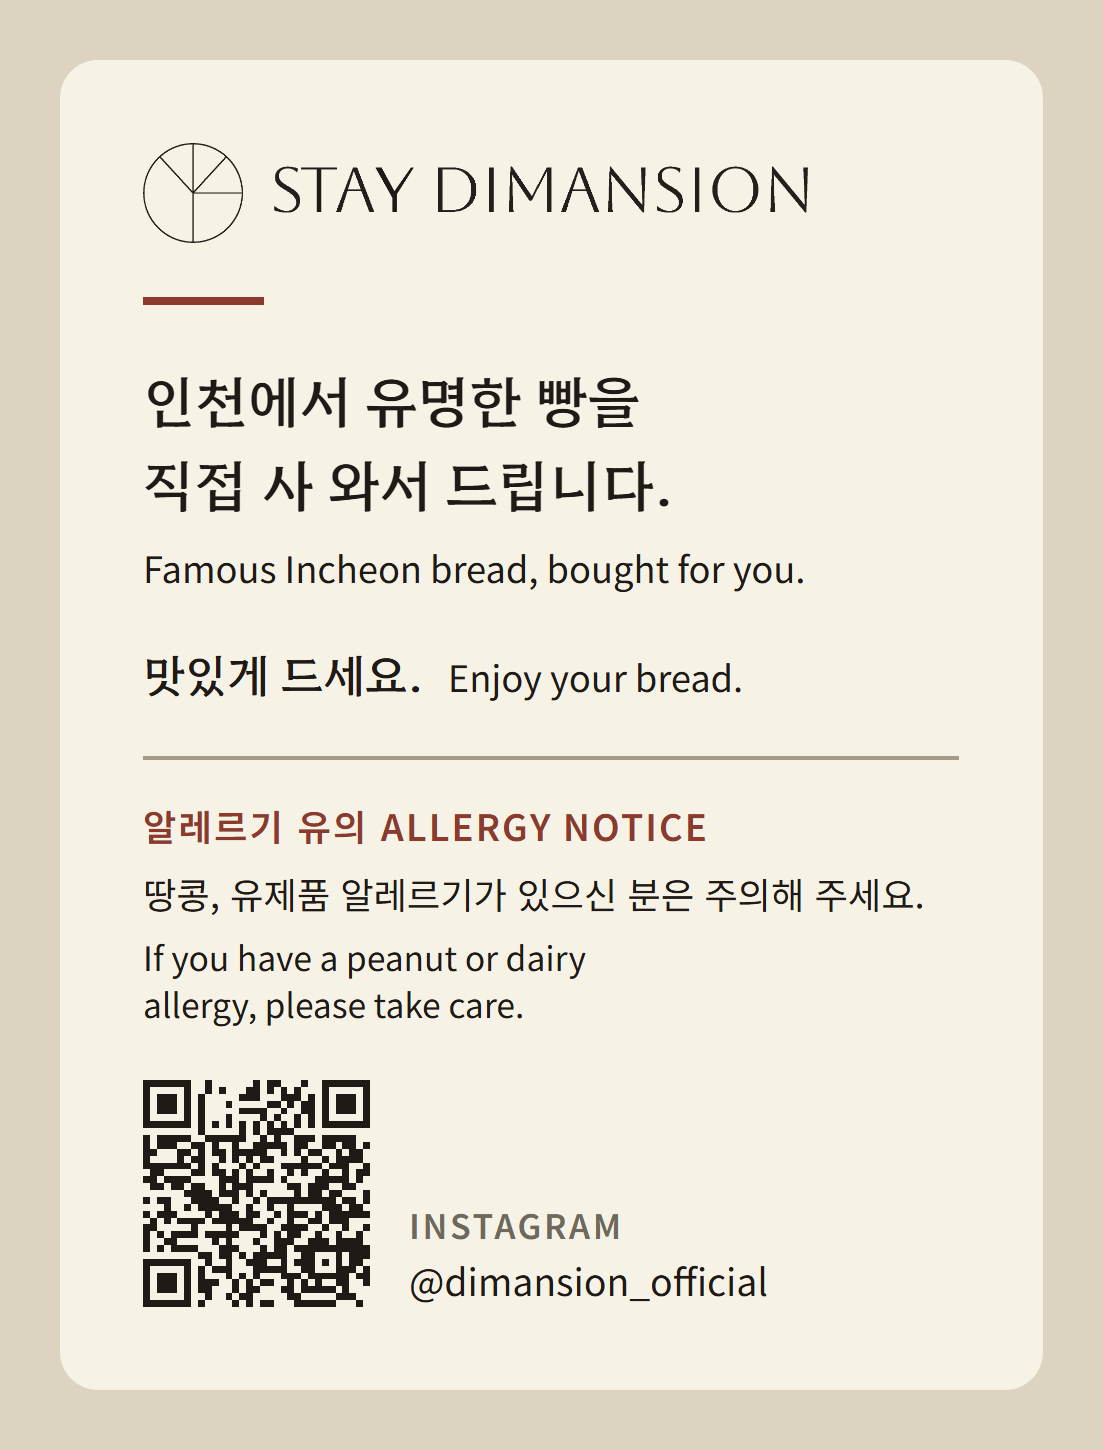
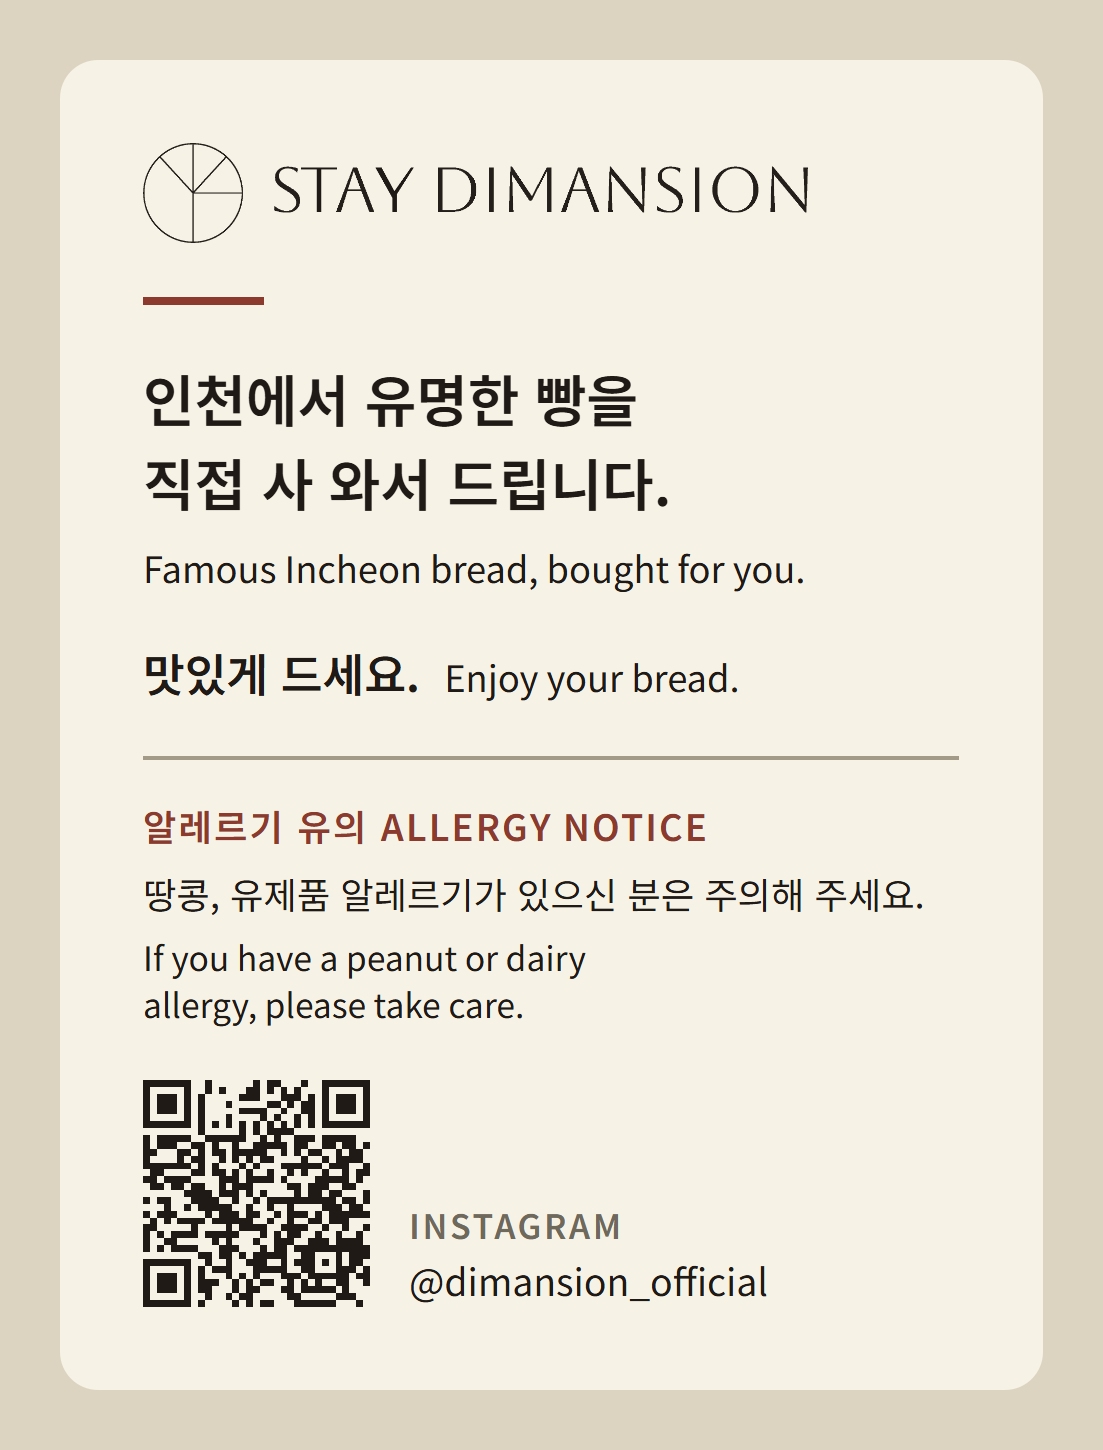
No Korean serif: Korean in Pretendard, English-only Hahmlet
Update README, design-system.md, tokens, fonts.css (Latin-only Hahmlet
subset), swatch sheet and sticker example.

diff --git a/tokens.css b/tokens.css
@@ -1,4 +1,4 @@
-/* Staydimansion design tokens — colors, type, spacing, print, base (combined for reading) */
+/* Staydimansion design tokens — colors, type, spacing, print, base (combined for reading). Fonts: see fonts.css */
 
 /* ===== tokens/colors.css ===== */
 :root {
@@ -41,9 +41,10 @@
 
 /* ===== tokens/typography.css ===== */
 :root {
-  /* Italic is not used in Staydimansion (decided 2026-09-19). Lead lines and quotes use upright Hahmlet. */
-  --font-display-italic: var(--font-display); /* DEPRECATED alias, renders upright Hahmlet. Do not set font-style: italic. */
-  --font-display: "Hahmlet", "Noto Serif KR", serif;   /* headings, wordmark, lead lines */
+  /* Italic is not used in Staydimansion (decided 2026-09-19). English lead lines and quotes use upright Hahmlet; Korean ones use Pretendard. */
+  --font-display-italic: var(--font-display); /* DEPRECATED alias, renders the display stack, upright. Do not set font-style: italic. */
+  /* ENGLISH display only: wordmark, English titles, taglines, English lead lines. fonts.css loads a Latin-only Hahmlet subset, so Korean text in this stack renders in Pretendard. No Korean serif (decided 2026-10-28). */
+  --font-display: "Hahmlet", "Pretendard", "Noto Sans KR", "Malgun Gothic", sans-serif;
   --font-body: "Pretendard", -apple-system, "Malgun Gothic", sans-serif; /* UI + body */
   --font-mono-label: "Pretendard", monospace; /* used at small size + wide tracking, not a real mono */
 

diff --git a/fonts.css b/fonts.css
@@ -1,0 +1,5 @@
+/* English display serif only (decided 2026-10-28: no Korean serif).
+   The text= subset below holds Latin glyphs only, so Hangul never renders in Hahmlet and always falls
+   through to Pretendard / Noto Sans KR in the font stacks. Use the same URL in a <link> inside canvas artboards. */
+@import url('https://fonts.googleapis.com/css2?family=Hahmlet:wght@400;500;700&text=%20!%22%23%24%25%26%27%28%29%2A%2B%2C-.%2F0123456789%3A%3B%3C%3D%3E%3F%40ABCDEFGHIJKLMNOPQRSTUVWXYZ%5B%5C%5D%5E_%60abcdefghijklmnopqrstuvwxyz%7B%7C%7D~%E2%80%98%E2%80%99%E2%80%9C%E2%80%9D%E2%80%93%E2%80%94%E2%80%A6%C2%B7%E2%80%A2%C3%A9%C3%97%E2%86%92&display=swap');
+@import url('https://cdn.jsdelivr.net/gh/orioncactus/pretendard@v1.3.9/dist/web/static/pretendard.css');

diff --git a/design-system.md b/design-system.md
@@ -9,9 +9,10 @@ Brand: **STAYDIMANSION**, tagline "머무는 시간을 편집하는 스테이" (
 **STAY DIMANSION logo (added 2026-10-21):** the lettering in the logo now reads **STAY DIMANSION** (two words). New files are `assets/logo/logo-stay-*.png`: `horizontal` (black on white), `horizontal-ink` and `horizontal-ivory` (tight-cropped, transparent), `stacked` (+ `-ink`, `-ivory`), and `overlay` (grey circle behind the word). `logo-symbol.jpg` has no lettering and is unchanged. Use these for new work; the old `logo-horizontal*.png` / `logo-stacked.png` say DIMANSION only. The new wordmark reuses the original D-I-M-A-N-S-I-O-N glyphs and the S and A of the original; the **T and Y were drawn to match** (same stem and hairline weights, same stroke contrast) because the original typeface is not known. If the original vector or font turns up, rebuild STAY from it.
 
 **Decisions made after the source PDF (2026-09-19):**
-- **No italic anywhere.** The PDF-derived scale listed Newsreader Italic for lead lines; the brand does not use italic. Lead lines and quotes use upright Hahmlet. Newsreader is no longer loaded.
+- **No italic anywhere.** The PDF-derived scale listed Newsreader Italic for lead lines; the brand does not use italic. English lead lines and quotes use upright Hahmlet; Korean ones use Pretendard (see the no-Korean-serif decision below). Newsreader is no longer loaded.
 - **English tagline:** "Stay with comfort, connect with ease." (used on the business card back). The Korean tagline "머무는 시간을 편집하는 스테이" stays.
 - **Print exception to the 80/15/5 colour ratio:** the business card back is a full Rust field. Print pieces may use Rust as a background; screens still keep Rust for CTA and one emphasis.
+- **No Korean serif (2026-10-28):** Korean text is always Pretendard (Noto Sans KR fallback), never Hahmlet or any serif. Serif is for English display text only. In CSS use `font-family: var(--font-display)` for English and `var(--font-body)` for Korean; the Latin-only Hahmlet subset in `fonts.css` means a Korean string wrongly set in the display stack still renders in Pretendard. Existing print files that set Korean in Hahmlet (business card name, rooftop notice title, kiosk POP lead, bread-bag sticker v1) predate this decision.
 - **Korean line-breaking (2026-09-23):** always set `word-break: keep-all;` (plus `overflow-wrap: break-word;` as a fallback for one very long token) on Korean body copy. Default wrapping breaks a line between any two characters, which orphans a syllable — repeated user feedback calls this out. `tokens/base.css` sets it globally for production pages; a Design Component artboard is self-contained, so add the same rule to that artboard's own `<helmet><style> body{...}` block every time. **Exception (2026-10-14):** `keep-all` is for Korean only. On Japanese and Chinese blocks set `word-break: normal; line-break: strict;` (and `lang="ja"` / `lang="zh-Hans"`), otherwise they only break at punctuation. Wrap katakana words, key nouns and button labels in `white-space: nowrap` so they never split.
 
 ## Index
@@ -45,7 +46,7 @@ The guide gives an explicit do/don't list.
 
 ## Visual foundations
 - **Color** — usage ratio is explicit in the guide: Page/Linen ~80%, Ink ~15%, Rust+Brass ~5% combined. Rust is reserved for CTAs and one emphasis element per screen; never body text. Brass fails contrast on Page (2.1:1) — decorative/icon use only, never text. Max ~2 accent uses per screen (one CTA + one highlight).
-- **Type** — two families, each with one job: Hahmlet for headings, the wordmark, lead lines and pull-quotes (a serif with some formality), Pretendard for all UI and body copy (Korean-native sans). No italic, no third family, no decorative display font. When Korean and Latin sit on one line, set the Latin about 10% larger (for example 9.5 px Korean, 10.5 px Latin) so they look the same size.
+- **Type** — two families, each with one job: **Hahmlet (serif) for English display text only** — the wordmark, English titles, taglines, English lead lines and pull-quotes; **Pretendard for all Korean text** (headings at 600–700, lead lines at 500) and for UI and body copy. **No Korean serif, ever** (decided 2026-10-28; `fonts.css` loads a Latin-only Hahmlet subset so Hangul can never fall into it). No italic, no third family, no decorative display font. A bilingual layout sets the English line in Hahmlet and the Korean line in Pretendard. When Korean and Latin sit on one line, set the Latin about 10% larger (for example 9.5 px Korean, 10.5 px Latin) so they look the same size.
 - **Backgrounds** — flat color fields only (Page / Page Deep / Linen / Ink). No photography treatment is defined in the source; no gradients, no patterns, no textures beyond a faint diagonal hairline texture used once as a placeholder fill in the applied-examples panel.
 - **Borders & shadows** — no drop shadows anywhere in the source. Structure comes entirely from 1px hairlines (`--border-hairline`) and flat tone changes between adjacent fields. This is a stated principle: "각진 면, 얇은 선" (square faces, thin lines) — hierarchy via line + tone, not elevation.
 - **Corner radii** — effectively square. Buttons and inputs show a very slight (2px) softening at most; cards and panels are sharp-cornered.
@@ -64,7 +65,7 @@ The guide's "컴포넌트" panel shows: primary/secondary buttons, a date-range 
 
 ## Business card (added 2026-09-19)
 Landscape 90 x 50 mm, two sides, built in `ui_kits/business-card/`.
-- **Front:** Page background. Name in Hahmlet 700 at 14 px, then "총괄매니저 · General Manager". Phone and email at the lower left, aligned to the start of "General Manager"; the address at the lower right, right-aligned, ending with 스테이디멘션. No labels, no rules, no logo.
+- **Front:** Page background. Name in Pretendard 700 at 14 px (the version printed on 2026-09-19 used Hahmlet for the Korean name; reissue it this way if reprinted), then "총괄매니저 · General Manager". Phone and email at the lower left, aligned to the start of "General Manager"; the address at the lower right, right-aligned, ending with 스테이디멘션. No labels, no rules, no logo.
 - **Back:** Rust background, ivory logo top centre, "STAY WITH COMFORT," bottom left, "CONNECT WITH EASE." bottom right (Hahmlet 500, 9 px, 0.12em tracking, caps).
 - **Margins:** 13 px top/bottom and 15 px left/right from the trim line (3.4 to 4 mm). Do not go closer than 3 mm.
 - **Contact standard for print:** phone 010-9730-4120, email staydimansion@gmail.com, address 인천광역시 미추홀구 인주대로131번길 6 스테이디멘션 (from the room rate sheet and house rules PDFs, 2026-09-19).
@@ -72,7 +73,7 @@ Landscape 90 x 50 mm, two sides, built in `ui_kits/business-card/`.
 ## POP / signage (added 2026-10-14)
 Example: kiosk guide POP, an A5 piece printed on A4 paper.
 - **Sheet:** A4 portrait, the A5 art (148 x 210 mm, 3 mm bleed) centred, crop marks outside the bleed (5 mm long, 3 mm from the trim), one line of cutting instruction below. Print at 100%, never "fit to page".
-- **Layout:** logo top (ink, tight crop, 150 px wide), Korean lead sentence in Hahmlet 500 28 px with one Rust rule above, Korean body 18 px, then one hairline-separated row per language (English, 日本語, 中文) with an 11 px label column. Korean is primary and largest; other languages 14.5 px.
+- **Layout:** logo top (ink, tight crop, 150 px wide), Korean lead sentence in Pretendard 600 28 px with one Rust rule above, Korean body 18 px, then one hairline-separated row per language (English, 日本語, 中文) with an 11 px label column. Korean is primary and largest; other languages 14.5 px.
 - **Highlight:** the physical button label in Rust bold, one highlight per piece. Show the label as written on the device, in Korean, in parentheses after the translation, e.g. "CALL (호출)", so guests can match the button.
 - **Source:** the print HTML is kept with the notices: `이성훈/클로드/공지/키오스크_호출_안내POP_A4_원본.html`.
 

diff --git a/README.md b/README.md
@@ -37,12 +37,26 @@ Editorial Stay — 머무는 시간을 편집하는 스테이 / *Stay with comfo
 
 ## 3. 글꼴
 
-- **Hahmlet**: 제목, 로고 글자, 리드 문장, 인용. (Google Fonts)
-- **Pretendard**: 본문과 UI. 불러올 수 없으면 Noto Sans KR.
+- **국문은 전부 Pretendard** (불러올 수 없으면 Noto Sans KR). 제목 600~700, 리드 문장 500, 본문 400.
+- **국문 세리프(명조) 금지.** Hahmlet을 포함해 한글에는 세리프를 쓰지 않습니다.
+- **영문 제목만 세리프 Hahmlet**: 워드마크, 영문 제목, 태그라인, 영문 리드 문장과 인용. 영문 라벨과 본문은 Pretendard.
+- 국문과 영문이 함께 있는 소재는 영문 줄은 Hahmlet, 국문 줄은 Pretendard로 따로 설정합니다. 예: 태그라인 "Stay with comfort,"는 세리프, 그 아래 "머무는 시간을 편집하는 스테이"는 Pretendard.
 - **이탤릭 금지.** 제3의 글꼴, 장식 글꼴 금지.
 - 한글과 영문이 한 줄에 있으면 영문·숫자를 약 10% 크게 (예: 한글 9.5, 영문 10.5).
 - 작은 라벨은 대문자, 자간 0.08~0.12em.
 - **한국어 줄바꿈은 단어 단위**: CSS `word-break: keep-all; overflow-wrap: break-word;`. 단어나 음절이 중간에서 끊기지 않게 줄을 나눕니다. 일본어·중국어는 `word-break: normal; line-break: strict;`로 두고, 가타카나 단어와 버튼 이름은 `white-space: nowrap`으로 묶습니다.
+
+글꼴 불러오기 (Hahmlet은 영문 글자만 담은 부분 글꼴이라, 한글을 실수로 이 글꼴로 지정해도 Pretendard로 나옵니다):
+
+```html
+<link rel="stylesheet" href="https://fonts.googleapis.com/css2?family=Hahmlet:wght@400;500;700&text=%20!%22%23%24%25%26%27%28%29%2A%2B%2C-.%2F0123456789%3A%3B%3C%3D%3E%3F%40ABCDEFGHIJKLMNOPQRSTUVWXYZ%5B%5C%5D%5E_%60abcdefghijklmnopqrstuvwxyz%7B%7C%7D~%E2%80%98%E2%80%99%E2%80%9C%E2%80%9D%E2%80%93%E2%80%94%E2%80%A6%C2%B7%E2%80%A2%C3%A9%C3%97%E2%86%92&display=swap">
+<link rel="stylesheet" href="https://cdn.jsdelivr.net/gh/orioncactus/pretendard@v1.3.9/dist/web/static/pretendard.css">
+```
+
+```css
+--font-display: "Hahmlet", "Pretendard", "Noto Sans KR", sans-serif; /* 영문 제목 전용 */
+--font-body: "Pretendard", "Noto Sans KR", "Malgun Gothic", sans-serif; /* 국문, UI, 본문 */
+```
 
 ## 4. 형태와 레이아웃
 
@@ -79,7 +93,7 @@ Editorial Stay — 머무는 시간을 편집하는 스테이 / *Stay with comfo
 
 이미지 프롬프트에는 위 규칙을 영어로 풀어 쓰세요. 예:
 *warm cream paper background (#F6F2E6), ink-black thin hairline details, one muted rust-red accent (#8C3A2D), generous empty space, quiet editorial mood, no gradients, no shadows, no italic type, no emoji.*
-이미지 속 글자는 글꼴이 정확히 나오지 않으므로 최소로 하거나, 글자를 얹을 자리를 비워 두세요.
+이미지 속 글자는 글꼴이 정확히 나오지 않으므로 최소로 하거나, 글자를 얹을 자리를 비워 두세요. 한글을 넣어야 하면 고딕(산세리프)으로, 세리프는 영문에만 쓰라고 지시하세요.
 
 ## 9. 기본 정보
 
@@ -94,9 +108,10 @@ Editorial Stay — 머무는 시간을 편집하는 스테이 / *Stay with comfo
 | `README.md` | 이 문서 (핵심 규칙) |
 | `design-system.md` | 디자인 시스템 상세 설명 (영문, 결정 기록 포함) |
 | `tokens.css` | 색, 글꼴, 간격, 인쇄 값, 줄바꿈 규칙 (CSS 변수) |
+| `fonts.css` | 글꼴 불러오기 (영문 전용 Hahmlet + Pretendard) |
 | `swatches.png` | 색, 글꼴, 규칙, 로고를 한 장에 모은 견본 |
 | `logos/` | 로고 파일 |
-| `examples/` | 적용 예시: 엽서 앞면 2종, 엽서 뒷면, 빵봉지 스티커 |
+| `examples/` | 적용 예시: 엽서 앞면 2종, 엽서 뒷면, 빵봉지 스티커(국문 고딕 버전) |
 
 ## 관련 저장소
 
